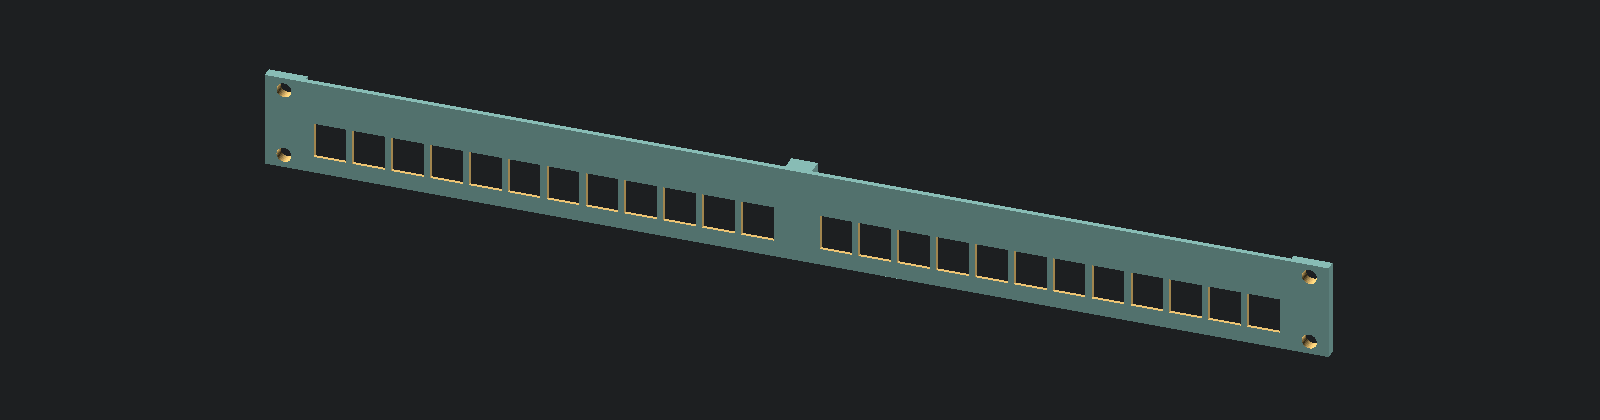
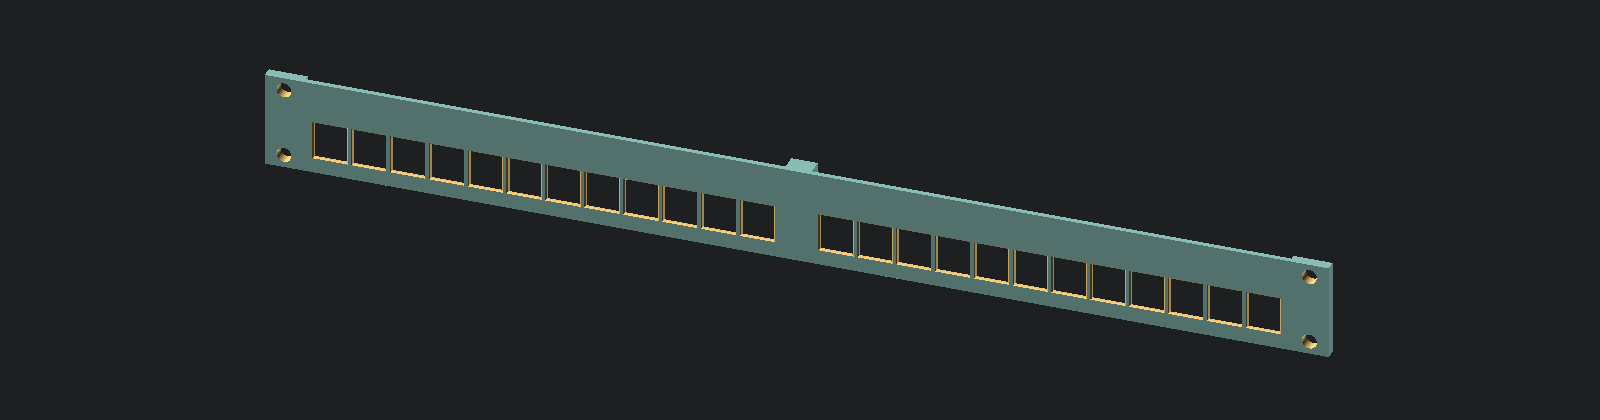
fix(keystone): open clearance to measured jack size, add fit ladder (#7)
A measured jack body (14.53 x 16.11 mm) left ~0.1 mm a side in the 14.8 x
16.3 mm cutout, before FDM shrink, so jacks were tight and the latch couldn't
compress through. Cutout is now 15.1 x 16.8 mm (separate clear_w/clear_h),
with a 0.5 mm front chamfer for elephant foot and port_t down to 1.5 mm.
part="test" is now a 3-port ladder at -0.2/0/+0.2 mm, marked by notches.

Claude-Session: https://claude.ai/code/session_015LRGjjPLStHXFK1m6zfzzR

diff --git a/README.md b/README.md
@@ -235,13 +235,13 @@ dowels** total across both seams.
 
 **Source:** `scad/rack-1u-keystone-panel.scad`
 **Pieces:** `keystone-left.stl`, `keystone-right.stl` (12 ports each),
-`keystone-test.stl` (one-port fit coupon)
+`keystone-test.stl` (3-port fit ladder)
 
-Standard 14.5 x 16mm keystone cutouts, industry-standard across brands, plus
-0.3mm of FDM clearance (`port_clear`). The plate is 2.5mm for stiffness, but
-each port has a rear pocket above and below it that thins the ledge the
-latch and hook grab to 1.6mm (`port_t`) — 2.5mm alone was too thick for jacks
-to snap in. Ports sit low in the panel, leaving ~20mm of clear space above
+Standard 14.5 x 16mm keystone cutouts plus FDM clearance: 15.1 x 16.8mm
+(`clear_w`, `clear_h`), with a 0.5mm chamfer on the front edge to absorb
+elephant foot. Sized against a measured 14.53 x 16.11mm jack body. The plate
+is 2.5mm for stiffness, but each port has a rear pocket above and below it
+that thins the ledge the latch and hook grab to 1.5mm (`port_t`). Ports sit low in the panel, leaving ~20mm of clear space above
 each one for a label.
 
 **Joint:** 3x M3 bolt + nut, 2x filament dowel = **3 bolts, 3 nuts, 2
@@ -249,11 +249,10 @@ dowels**.
 
 **Assembly:**
 1. **Print `keystone-test.stl` and try your jacks before printing both
-   pieces** — clip tolerance varies by brand/model. Seat the hook edge
-   first, then rock the latch side in until it clicks. Too tight to enter:
-   raise `port_clear` (or enable your slicer's elephant-foot compensation).
-   Enters but won't latch: lower `port_t`. Loose is fine — the clip still
-   does the retaining.
+   pieces.** It has three ports, marked by 1 / 2 / 3 notches on the top
+   edge: -0.2mm, the defaults, and +0.2mm on both clearances. Seat the hook
+   edge first, then rock the latch side in until it clicks. Add the winning
+   offset to `clear_w`/`clear_h`. Enters but won't latch: lower `port_t`.
 2. Bolt the two pieces together same as the other panels (heads from the
    left piece, nuts on the right, dowels first).
 3. Snap jacks in from the rear, terminated or not — they self-retain, no
